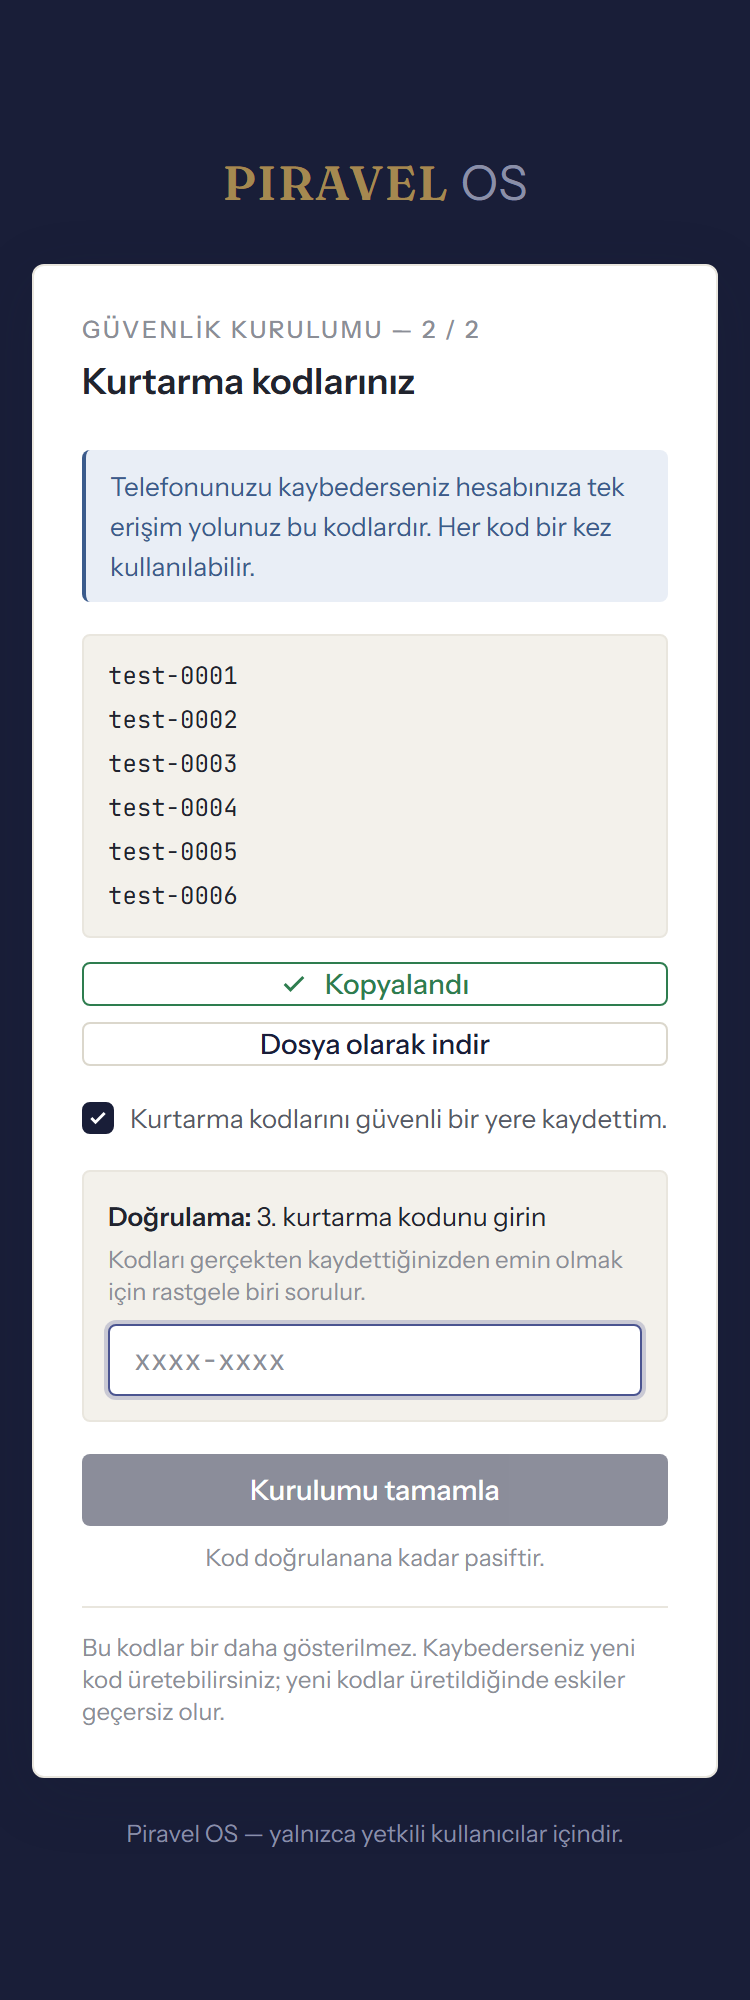
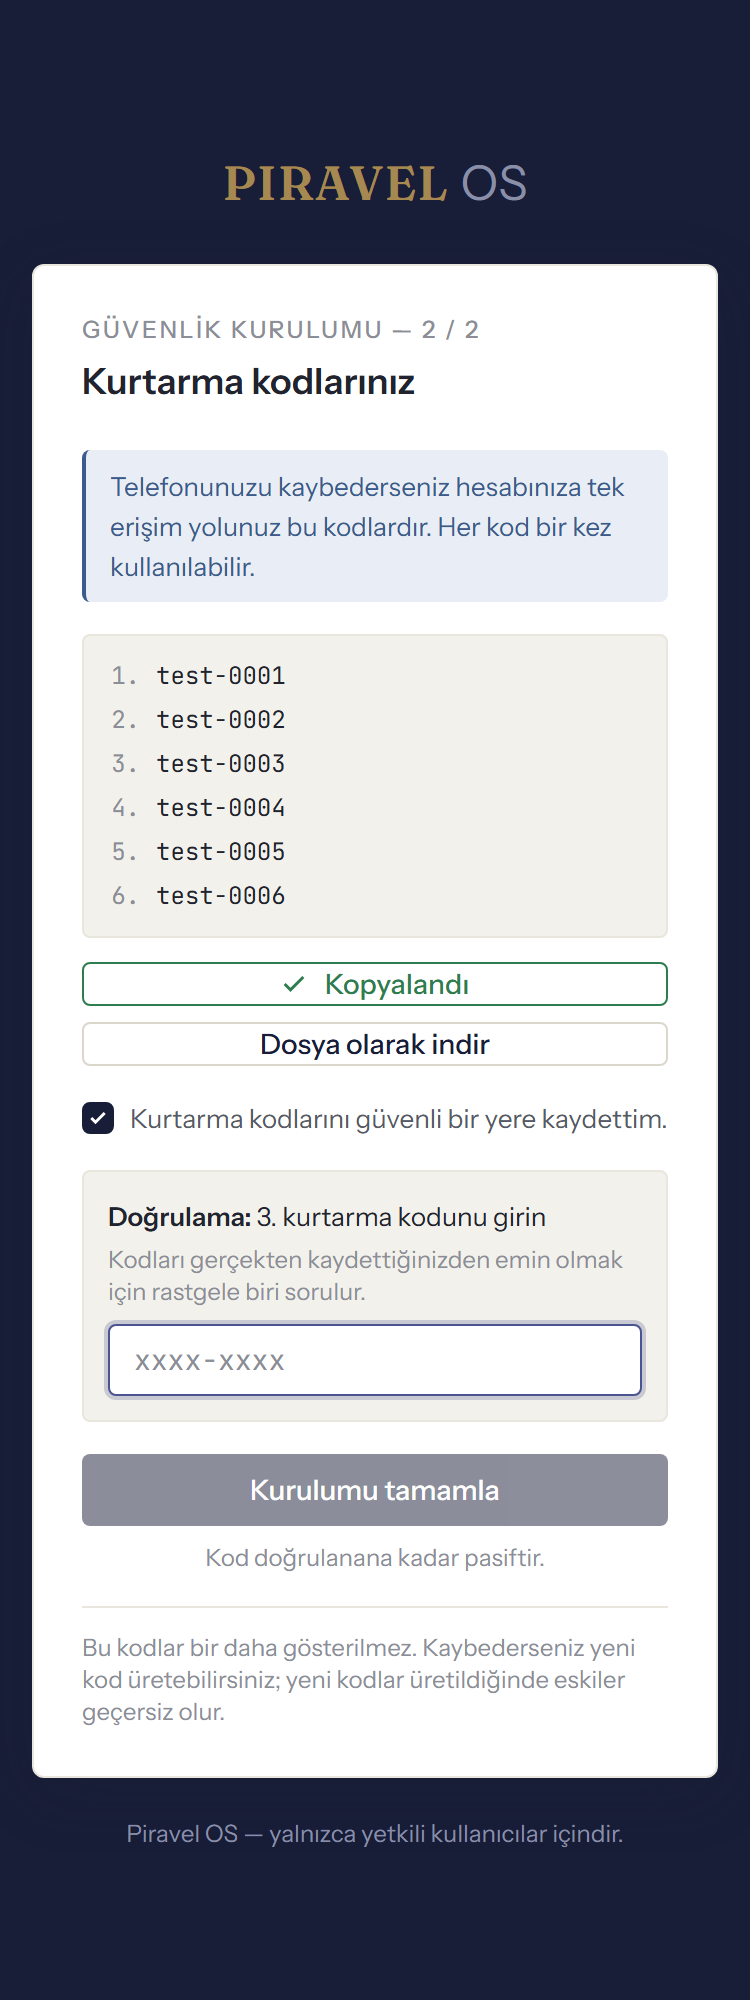
Kurtarma kodlarını numaralandır — doğrulama adımı belirsizdi
Doğrulama "n. kurtarma kodunu girin" diye soruyor ama kodlar numarasız,
iki sütunlu bir ızgarada gösteriliyordu. Izgara satır satır dolduğu için
okuma sırası soldan sağa; kullanıcı sol sütunu yukarıdan aşağı sayıp
yanlış kodu giriyor ve kapıyı geçemiyordu.

Sistem doğru davranıyordu (yanlış kod reddedildi); kusur arayüzdeydi.
Kodlar artık 1..6 numaralı gösteriliyor.

Aynı düzeltme wireframe bileşenine de uygulandı ki görsel onay kaydı ile
çalışan ekran birbirinden ayrışmasın.

Changed region(s): [[0.1533, 0.31, 0.368, 0.465]]

diff --git a/src/app/wireframe/_components.tsx b/src/app/wireframe/_components.tsx
@@ -195,12 +195,19 @@ export function OtpInput({ value = "", focusIndex }: { value?: string; focusInde
   );
 }
 
-/** Kurtarma kodu listesi — masaüstü 2 kolon, mobil tek kolon. */
+/**
+ * Kurtarma kodu listesi — masaüstü 2 kolon, mobil tek kolon.
+ * Kodlar NUMARALIDIR: doğrulama adımı "n. kodu girin" diye sorar, iki sütunlu
+ * ızgarada okuma sırası numarasız belirsiz kalır.
+ */
 export function RecoveryCodes({ codes }: { codes: string[] }) {
   return (
     <div className="mb-3 grid grid-cols-2 gap-x-4 gap-y-1.5 rounded-sm border border-line-200 bg-fill-100 p-3 font-mono text-xs text-ink-900 max-md:grid-cols-1">
-      {codes.map((c) => (
-        <span key={c}>{c}</span>
+      {codes.map((c, i) => (
+        <span key={c} className="flex gap-2">
+          <span className="w-4 shrink-0 text-right tnum text-ink-400">{i + 1}.</span>
+          <span>{c}</span>
+        </span>
       ))}
     </div>
   );

diff --git a/src/app/(auth)/guvenlik-kurulumu/setup-flow.tsx b/src/app/(auth)/guvenlik-kurulumu/setup-flow.tsx
@@ -234,9 +234,16 @@ export function SetupFlow({ zorunlu }: { zorunlu: boolean }) {
         Her kod bir kez kullanılabilir.
       </div>
 
+      {/* Kodlar NUMARALI gösterilir: doğrulama adımı "n. kodu girin" diye
+          sorduğu için, iki sütunlu ızgarada okuma sırası belirsiz kalmamalı.
+          Numarasız haliyle kullanıcı sol sütunu yukarıdan aşağı sayıp yanlış
+          kodu giriyordu. */}
       <div className="mb-3 grid grid-cols-2 gap-x-4 gap-y-1.5 rounded-sm border border-line-200 bg-fill-100 p-3 font-mono text-xs text-ink-900 max-md:grid-cols-1">
-        {codes.map((c) => (
-          <span key={c}>{c}</span>
+        {codes.map((c, i) => (
+          <span key={c} className="flex gap-2">
+            <span className="w-4 shrink-0 text-right tnum text-ink-400">{i + 1}.</span>
+            <span>{c}</span>
+          </span>
         ))}
       </div>
 
